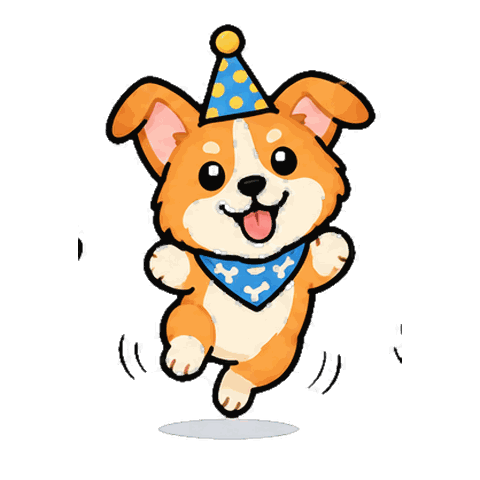
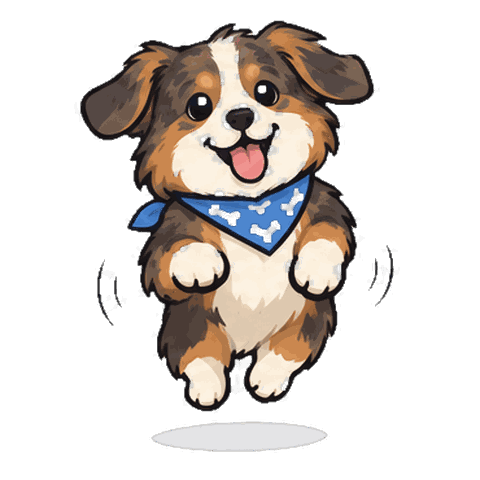
Expand win-dance to 12 frames with a redesigned character
Replaces the 6-frame party-hat corgi with a new 12-pose sequence
(bandana corgi) for a smoother, less jarring loop. Extracted from a
2-row sheet with the same ink-density + alpha-matte pipeline; padding
between adjacent poses is now clamped to half the gap to its neighbor
so a tight gap (as little as 7px between Spin and Back to Stand)
can't bleed a stray mark in from the next frame - the same bug class
as the earlier label-row bleed, just against a neighboring pose
instead of a text row.

Bumps the service worker cache version and precache list to match.

diff --git a/sw.js b/sw.js
@@ -1,6 +1,6 @@
 // Bump this on every deploy - old caches are dropped on activate, and it's
 // what forces a stale service worker to notice there's an update at all.
-var CACHE_NAME = 'corgdoku-v31';
+var CACHE_NAME = 'corgdoku-v32';
 var CORGI_IDS = [
   'classic','happy','wink','sleepy','blep','cream','fox','sable','tri','patch','shades','party',
   'crowned','batter','bookworm','gentleman','darling','frosty','lucky','smitten','dino','bandit',
@@ -10,7 +10,8 @@ var CORGI_IDS = [
   'aviator','shady','witchy','clover','sweetheart','snowflake','rookie','angel','toughpup','cozy'
 ];
 var PAW_IDS = ['chunky','slim','heart','tilted','walking','scratched','dainty','singlepad','outline','trail'];
-var DANCE_IDS = ['dance-1-stand','dance-2-pawsup','dance-3-hop','dance-4-sidelean','dance-5-spin','dance-6-backtostand'];
+var DANCE_IDS = ['dance-1-stand','dance-2-pawsup','dance-3-hop','dance-4-sidelean','dance-5-spin','dance-6-backtostand',
+  'dance-7-shuffleleft','dance-8-shuffleright','dance-9-pawwave','dance-10-littlebow','dance-11-tongueout','dance-12-returntostand'];
 var ASSETS = [
   './',
   './index.html',

diff --git a/index.html b/index.html
@@ -3299,7 +3299,9 @@
   // ---------------------------------------------------------------------
   var WIN_DANCE_FRAMES = [
     'dance-1-stand', 'dance-2-pawsup', 'dance-3-hop',
-    'dance-4-sidelean', 'dance-5-spin', 'dance-6-backtostand'
+    'dance-4-sidelean', 'dance-5-spin', 'dance-6-backtostand',
+    'dance-7-shuffleleft', 'dance-8-shuffleright', 'dance-9-pawwave',
+    'dance-10-littlebow', 'dance-11-tongueout', 'dance-12-returntostand'
   ];
   var winDanceTimer = null;
 
